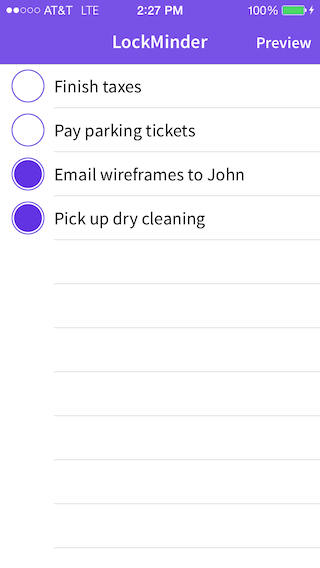
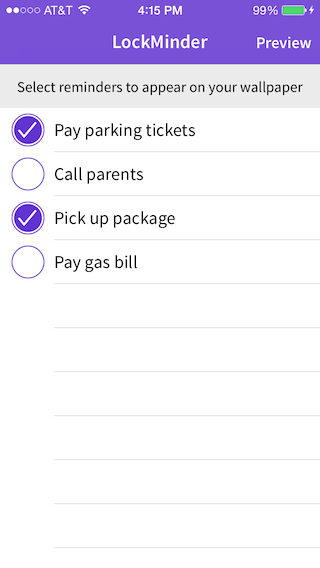
Updated screenshots, minor UI changes

diff --git a/LockMinder/ListViewController.m b/LockMinder/ListViewController.m
@@ -122,7 +122,7 @@
 
 - (CGFloat)tableView:(UITableView *)tableView heightForHeaderInSection:(NSInteger)section {
     if ([self.reminders count]) {
-        return 0.0f;
+        return 44.0f;
     } else {
         return 120.0f;
     }
@@ -130,9 +130,16 @@
 
 - (UIView *)tableView:(UITableView *)tableView viewForHeaderInSection:(NSInteger)section {
     UILabel *headerView = [[UILabel alloc] initWithFrame:CGRectZero];
-    headerView.font = [UIFont applicationFontOfSize:18.0f];
+    headerView.backgroundColor = [UIColor colorWithWhite:0.92f alpha:1.0f];
+    headerView.font = [UIFont applicationFontOfSize:15.0f];
     headerView.textAlignment = NSTextAlignmentCenter;
-    headerView.text = NSLocalizedString(@"No reminders", nil);
+    
+    if ([self.reminders count]) {
+        headerView.text = NSLocalizedString(@"Select reminders to appear on your wallpaper", nil);
+    } else {
+        headerView.text = NSLocalizedString(@"No reminders", nil);
+    }
+    
     return headerView;
 }
 

diff --git a/LockMinder/AppDelegate.m b/LockMinder/AppDelegate.m
@@ -25,7 +25,7 @@
 - (void)customizeAppearance {
     [[UIApplication sharedApplication] setStatusBarStyle:UIStatusBarStyleLightContent animated:NO];
     
-    UIColor *applicationColor = [UIColor colorWithRed:0.529 green:0.102 blue:1.000 alpha:1.000];
+    UIColor *applicationColor = [UIColor colorWithRed:0.38f green:0.20f blue:0.82f alpha:1.0f];
     self.window.tintColor = applicationColor;
 
     NSDictionary *barButtonItemTitleTextAttributes = @{ NSFontAttributeName: [UIFont semiboldApplicationFontOfSize:16.0f] };
